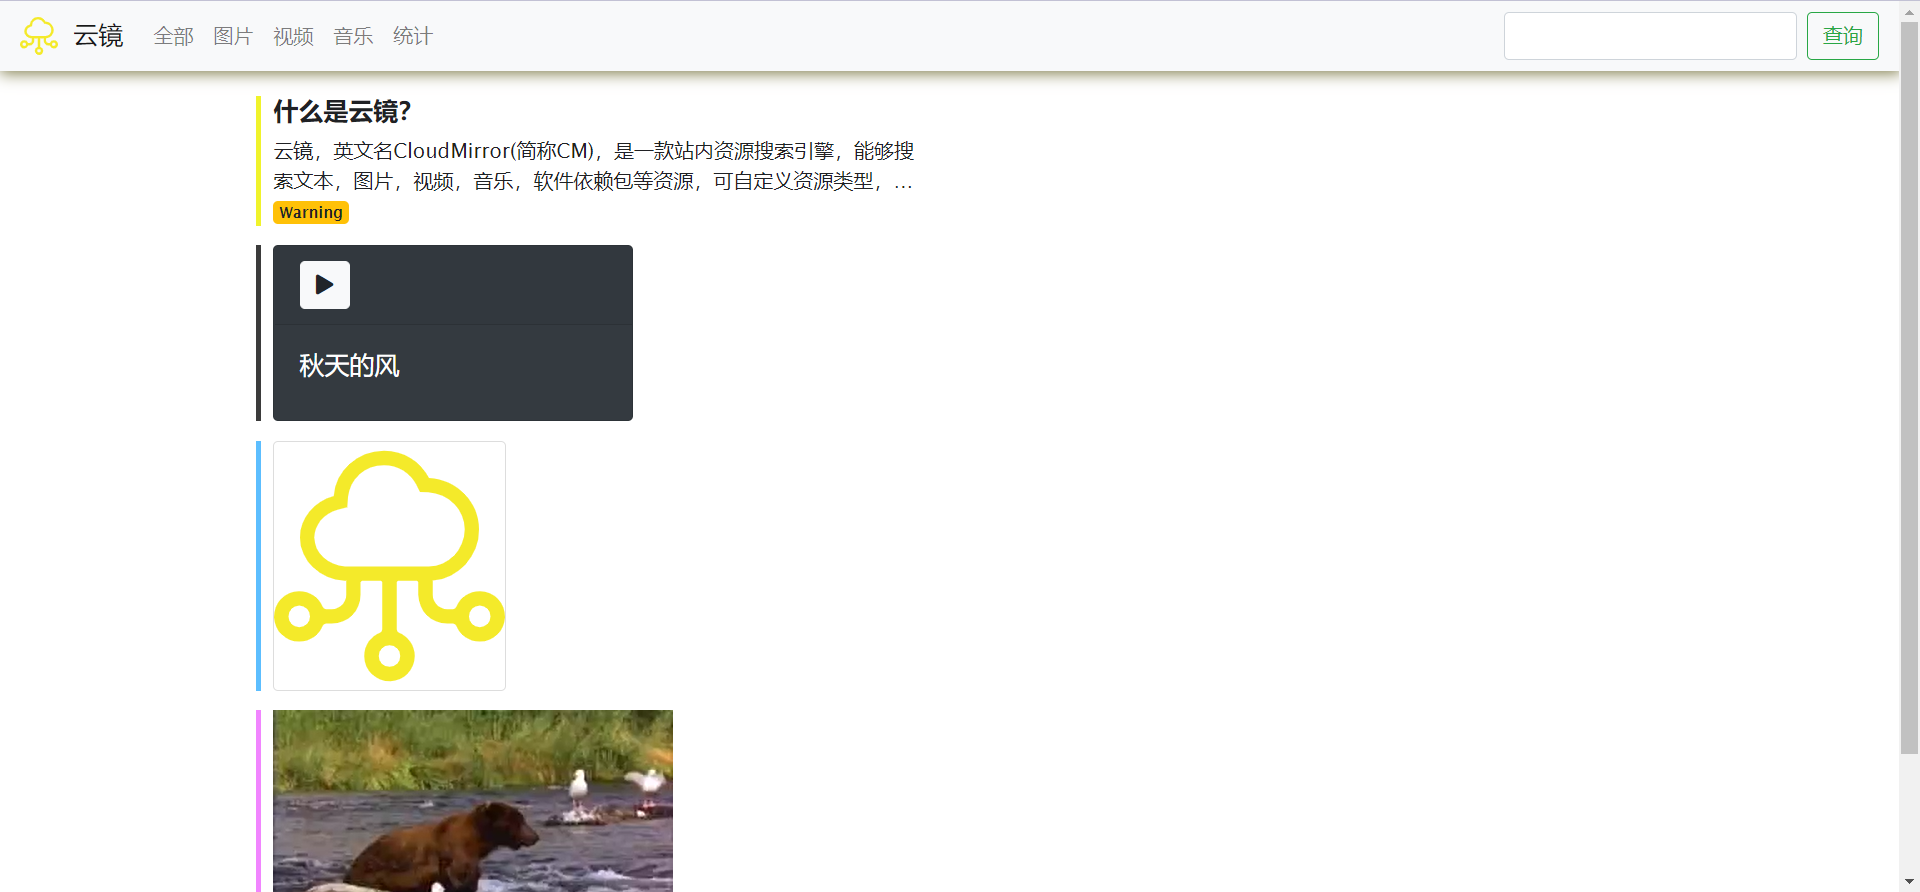
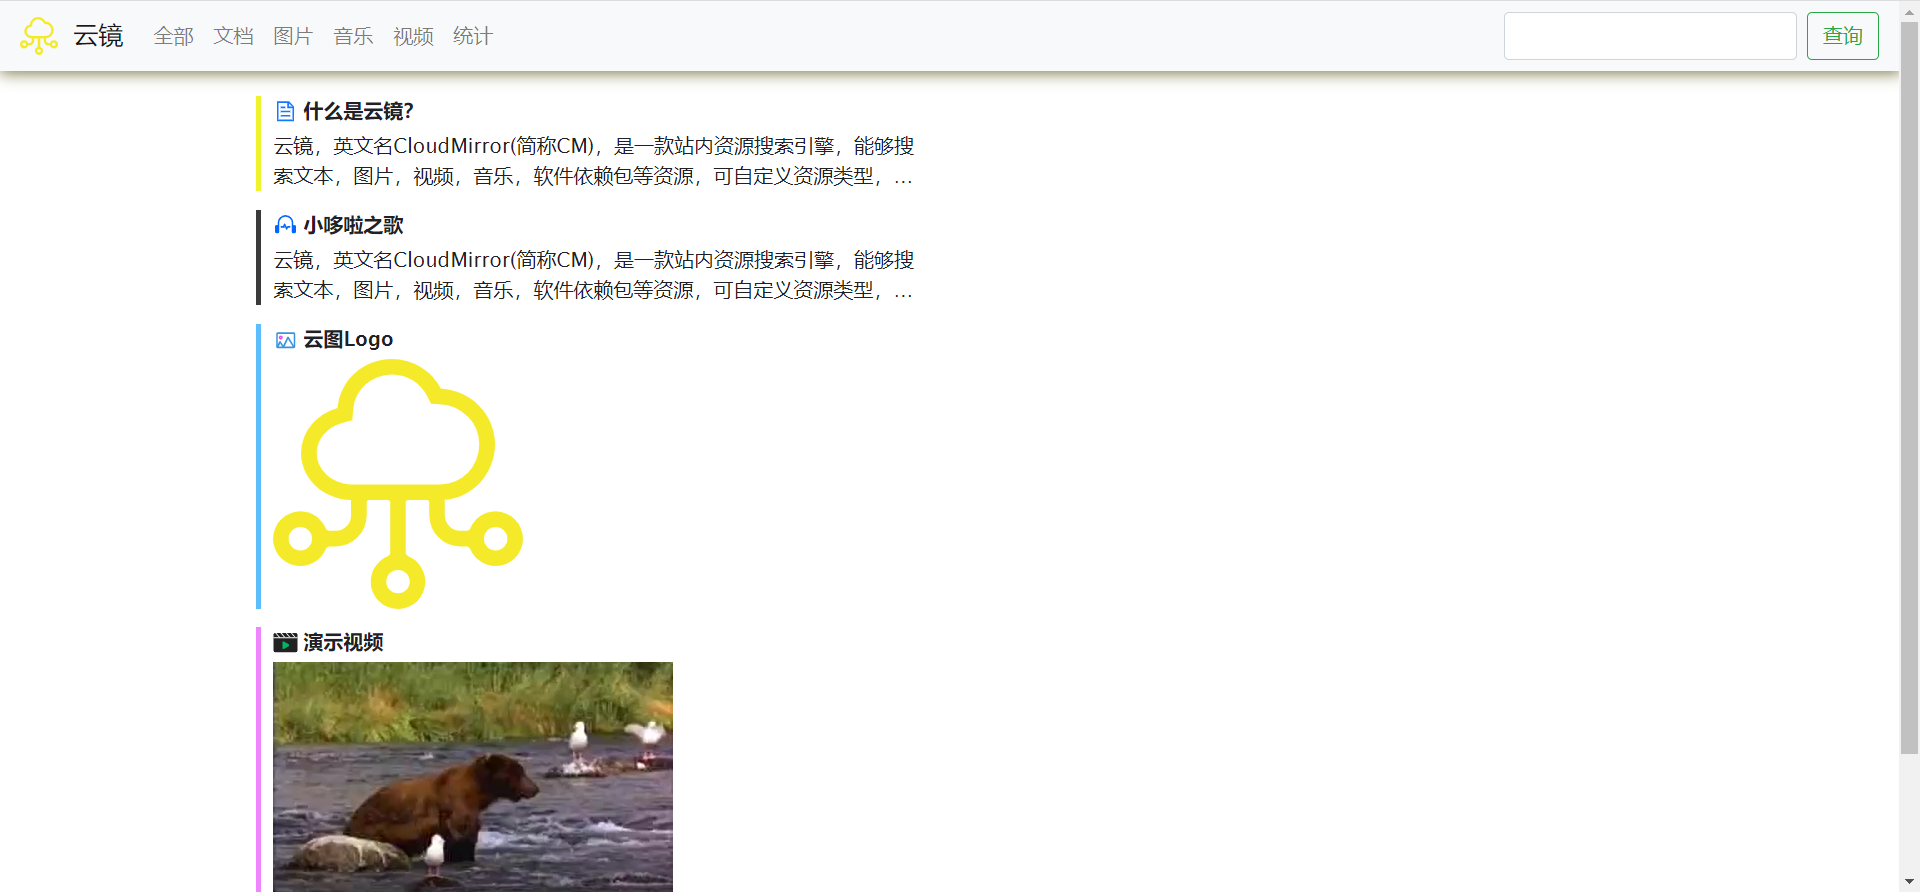
overhaul webpage display effect.

Changed region(s): [[0.125, 0.0908, 0.5, 1.0], [0.1875, 0.0303, 0.25, 0.0605], [0.0938, 0.0303, 0.1562, 0.0605]]

diff --git a/templates/templates_default/index.html b/templates/templates_default/index.html
@@ -56,46 +56,62 @@
         <!-- Text CONTENT -->
         <div class="row">
             <div class="col-sm-6 col-md-5 col-lg-6">
-                <div class="item item-text">
-                    <h5 class="item-text-title">什么是云镜？</h5>
-                    <div class="item-text-brief">
+                <div class="item item-type-doc">
+                    <div class="item-head-doc"><img class="item-type-icon" src="/static/assets/images/doc.svg" alt=""
+                            srcset=""><span class="item-doc-title">什么是云镜？</span></div>
+                    <div class="item-brief-doc">
                         云镜，英文名CloudMirror(简称CM)，是一款站内资源搜索引擎，能够搜索文本，图片，视频，音乐，软件依赖包等资源，可自定义资源类型，扩展度高。</div>
-                    <span class="badge badge-warning">Warning</span>
                 </div>
 
                 <!-- Music CONTENT -->
-                <div class="item item-audio">
-                    <div class="card text-white bg-dark mb-3" style="max-width: 18rem;">
-                        <div class="card-header"><button type="button" class="btn btn-light"><i
-                                    class="fas fa-play"></i></button></div>
-                        <div class="card-body">
-                            <h5 class="card-title">秋天的风</h5>
-                            <p class="card-text"></p>
-                        </div>
-                    </div>
+                <div class="item item-type-audio">
+                    <div class="item-head-audio"><img class="item-type-icon" src="/static/assets/images/audio.svg"
+                            alt="" srcset=""><span class="item-audio-title">小哆啦之歌</span></div>
+                    <div class="item-brief-doc">
+                        云镜，英文名CloudMirror(简称CM)，是一款站内资源搜索引擎，能够搜索文本，图片，视频，音乐，软件依赖包等资源，可自定义资源类型，扩展度高。</div>
                 </div>
 
                 <!--Image CONTENT -->
-                <div class="item item-image" data-toggle="modal" data-target=".bd-CloudMirror-modal-lg">
-                    <img src="/static/assets/images/CloudMirror.svg" height="200" />
+                <div class="item item-type-image" data-toggle="modal" data-target=".bd-CloudMirror-modal-lg">
+                    <div class="item-head-image"><img class="item-type-icon" src="/static/assets/images/image.svg"
+                            alt="" srcset=""><span class="item-image-title">云图Logo</span></div>
+                    <div class="item-brief-doc">
+                        <img src="/static/assets/images/CloudMirror.svg" height="200" />
+                    </div>
                 </div>
 
                 <!--Video CONTENT -->
-                <div class="item item-video" data-toggle="modal" data-target=".bd-CloudMirror-modal-lg">
-                    <video controls="controls" autoplay="autoplay">
-                        <source src="/static/assets/videos/movie.ogg" type="video/ogg" />
-                        <source src="/static/assets/videos/movie.mp4" type="video/mp4" />
-                        <source src="/static/assets/videos/movie.webm" type="video/webm" />
-                        <object data="/static/assets/videos/movie.mp4" width="320" height="240">
-                            <embed width="320" height="240" src="/static/assets/videos/movie.swf" />
-                        </object>
-                    </video>
+                <div class="item item-type-video" data-toggle="modal" data-target=".bd-CloudMirror-modal-lg">
+                    <div class="item-head-image"><img class="item-type-icon" src="/static/assets/images/video.svg"
+                            alt="" srcset=""><span class="item-image-title">演示视频</span></div>
+                    <div class="item-brief-doc">
+                        <video controls="controls" autoplay="autoplay">
+                            <source src="/static/assets/videos/movie.ogg" type="video/ogg" />
+                            <source src="/static/assets/videos/movie.mp4" type="video/mp4" />
+                            <source src="/static/assets/videos/movie.webm" type="video/webm" />
+                            <object data="/static/assets/videos/movie.mp4" width="320" height="240">
+                                <embed width="320" height="240" src="/static/assets/videos/movie.swf" />
+                            </object>
+                        </video>
+                    </div>
                 </div>
             </div>
             <div class="col-sm-6 col-md-5 offset-md-2 col-lg-6 offset-lg-0"></div>
         </div>
-
+        <!-- 按钮组 -->
+        <div class="btn-toolbar" role="toolbar" aria-label="Toolbar with button groups">
+            <div class="btn-group mr-2" role="group" aria-label="First group">
+                <button type="button" class="btn btn-light">1</button>
+                <button type="button" class="btn btn-light">2</button>
+                <button type="button" class="btn btn-light">3</button>
+                <button type="button" class="btn btn-light">4</button>
+            </div>
+            <div class="btn-group" role="group" aria-label="Second group">
+                <button type="button" class="btn btn-light">下一页</button>
+            </div>
+        </div>
     </div>
+    <!-- Modal框 -->
     <div class="modal fade bd-CloudMirror-modal-lg" tabindex="-1" role="dialog" aria-labelledby="myLargeModalLabel"
         aria-hidden="true">
         <div class="modal-dialog modal-lg">
@@ -106,6 +122,7 @@
             </div>
         </div>
     </div>
+
     <script src="/static/pkg/bootstrap-4.6.1-dist/js/bootstrap.min.js"></script>
     <script src="/static/pkg/rowGrid.js-master/jquery.row-grid.min.js"></script>
     <script src="/static/js/index.js"></script>

diff --git a/static/css/index.css b/static/css/index.css
@@ -44,7 +44,7 @@ nav {
     clear: both;
 }
 
-#container img {
+/* #container img {
     height: 200px;
     border: 0.5px solid #ddd;
     transition: all 0.2s ease-in-out;
@@ -55,24 +55,37 @@ nav {
     border-radius: 0;
     transform: scale(1.1);
     box-shadow: 1px 1px 12px 1px rgb(168, 168, 168);
-}
+} */
 
 
 #container .item {
+    width: 100% !important;
+    height: fit-content !important;
     padding-left: 10px;
     margin-bottom: 15px;
 }
 
-#container .item-text {
-    padding-left: 10px;
-    border-left: 4px solid rgb(240, 243, 43);
-}
-
-#container .item-text-title {
+#container div[class^="item-head"] {
+    display: block;
+    float: left;
     font-weight: bolder;
 }
 
-#container .item-text-brief {
+#container img.item-type-icon {
+    float: left;
+    padding-right: 4px;
+    width: 24px;
+    height: 24px;
+}
+
+#container div[class^="item-title"] {
+    float: left;
+    font-weight: bolder;
+}
+
+#container div[class^="item-brief"] {
+    width: 100% !important;
+    padding: 4px 0px 0px;
     overflow: hidden;
     text-overflow: ellipsis;
     display: -webkit-box;
@@ -80,15 +93,19 @@ nav {
     -webkit-line-clamp: 2;
 }
 
-#container .item-audio {
+#container .item-type-doc {
+    border-left: 4px solid rgb(240, 243, 43);
+}
+
+#container .item-type-audio {
     border-left: 4px solid rgb(59, 59, 59);
 }
 
-#container .item-image {
+#container .item-type-image {
     border-left: 4px solid rgb(92, 190, 255);
 }
 
-#container .item-video {
+#container .item-type-video {
     border-left: 4px solid rgb(241, 133, 255);
 }
 
